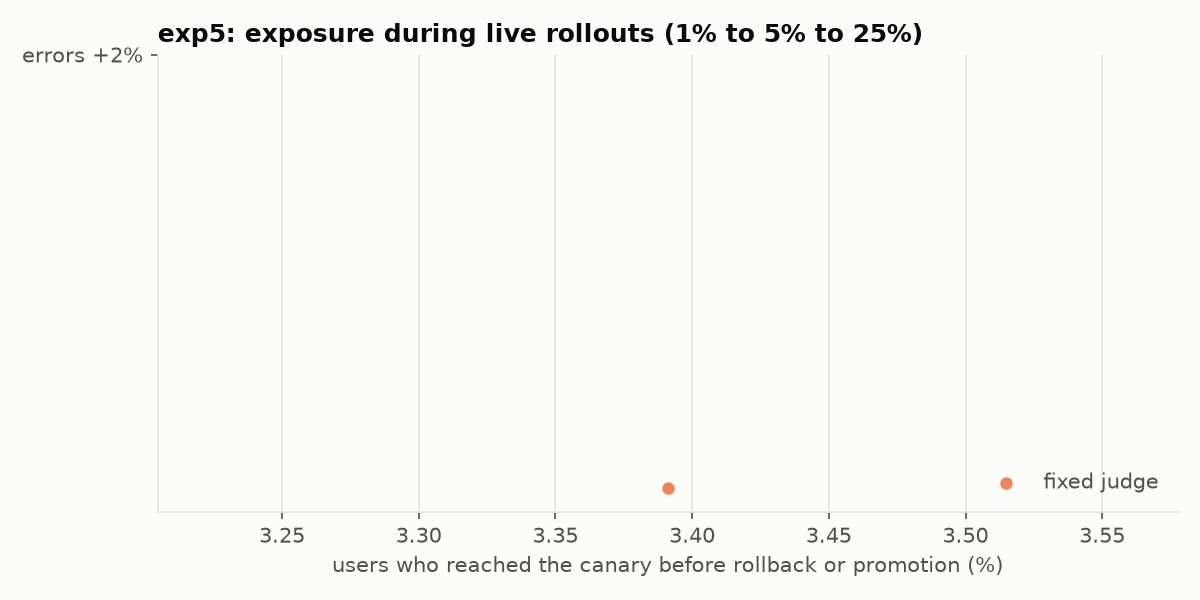
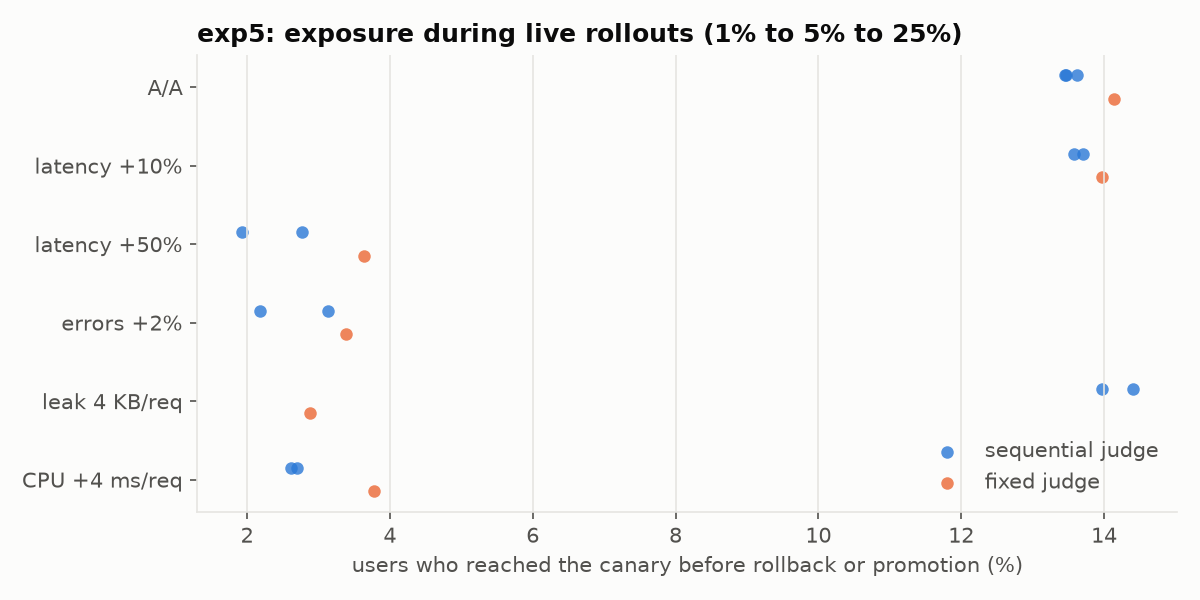
exp5: live rollouts on the mini PC (native Windows processes)

diff --git a/bench/ledger.py b/bench/ledger.py
@@ -151,7 +151,10 @@ def main():
             s = summ[-1]
             w("## exp4: agreement with Kayenta (`results/exp4.jsonl`)\n")
             w(f"Kayenta itself (`{s['kayenta_image']}`, unmodified) and CanaryJudge judged the same recorded series, every run at "
-              f"{', '.join(str(x) for x in s['windows'])} intervals. CanaryJudge was called {s['canaryjudge_via']}.\n")
+              f"{', '.join(str(x) for x in s['windows'])} intervals ({s['judgements']} judgments of {s['runs']} runs). CanaryJudge "
+              f"was called through its Kayenta-compatible API, and again in process (`results/exp4_inprocess.jsonl`, the same "
+              f"result). This ran on a {s['machine']['host']}, because Docker on the mini PC was unavailable by then "
+              f"(BUG_LOG #9); the judgments are deterministic, so the machine does not change them.\n")
             w(f"- Per-metric classification: **{s['metric_verdicts_agree']:,} of {s['metric_verdicts_compared']:,}** agree.")
             w(f"- Canary verdict (Pass, Marginal, Fail): **{s['canary_verdicts_agree']} of {s['judgements']}** agree.")
             w(f"- Largest score difference: {s['max_score_diff']:.2f}.")
@@ -164,7 +167,9 @@ def main():
         w("## exp5: live rollouts (`results/exp5.jsonl`)\n")
         w("The rollout controller moves a fresh canary through 1%, 5% and 25% of users (2 minutes each, a fresh baseline at the same "
           "share), then promotes it. Users stick to one side by a hash of their id; the share of users who reached the canary is "
-          "counted by the splitter from the start of the rollout to the end (rollback or promotion).\n")
+          "counted by the splitter from the start of the rollout to the end (rollback or promotion). These ran as native Windows "
+          "processes on the same mini PC (Prometheus's Windows binary, every service a plain JVM on 127.0.0.1), because Docker in "
+          "WSL had become unusable (BUG_LOG #9). The load generator sends 200 requests per second to the rollout lane.\n")
         w("| regression | judge | rollouts | rolled back | median minutes to rollback | median share of users reached | max share of users reached |")
         w("|---|---|---|---|---|---|---|")
         groups = {}
@@ -177,6 +182,11 @@ def main():
             w(f"| {LABEL.get(s, s)} | {mode} | {len(rs)} | {len(rb)} | {fmt_min(statistics.median(mins)) if mins else ''} | "
               f"{pct(statistics.median(shares), 2)} | {pct(max(shares), 2)} |")
         bad = [r for r in exp5 if r["scenario"] != "aa" and r["mode"] == "sequential"]
+        fast = [r for r in bad if r["status"] == "rolled_back" and r["scenario"].split("_")[0] in ("latency", "errors", "cpu")]
+        if fast:
+            w(f"\nSequential judge, latency, error and CPU regressions it rolled back ({len(fast)} rollouts): at most "
+              f"**{pct(max(r['canary_user_share'] for r in fast), 1)}** of users reached the canary, median "
+              f"{statistics.median(r['seconds'] for r in fast) / 60:.1f} minutes to rollback.")
         if bad:
             w(f"\nSequential judge, every injected regression ({len(bad)} rollouts): at most **{pct(max(r['canary_user_share'] for r in bad), 1)}** "
               f"of users reached the bad canary before rollback; {sum(r['status'] == 'rolled_back' for r in bad)} of {len(bad)} rolled back.\n")

diff --git a/NUMBERS.md b/NUMBERS.md
@@ -69,7 +69,7 @@ Over every injected run the sequential judge caught (31 runs): median **1.3 min*
 
 ## exp4: agreement with Kayenta (`results/exp4.jsonl`)
 
-Kayenta itself (`us-docker.pkg.dev/spinnaker-community/docker/kayenta:2026.0.4-slim`, unmodified) and CanaryJudge judged the same recorded series, every run at 12, 24, 36 intervals. CanaryJudge was called kayenta-compatible API.
+Kayenta itself (`us-docker.pkg.dev/spinnaker-community/docker/kayenta:2026.0.4-slim`, unmodified) and CanaryJudge judged the same recorded series, every run at 12, 24, 36 intervals (174 judgments of 58 runs). CanaryJudge was called through its Kayenta-compatible API, and again in process (`results/exp4_inprocess.jsonl`, the same result). This ran on a GitHub Actions runner (Linux, ubuntu24), because Docker on the mini PC was unavailable by then (BUG_LOG #9); the judgments are deterministic, so the machine does not change them.
 
 - Per-metric classification: **1,044 of 1,044** agree.
 - Canary verdict (Pass, Marginal, Fail): **174 of 174** agree.
@@ -78,16 +78,26 @@ Kayenta itself (`us-docker.pkg.dev/spinnaker-community/docker/kayenta:2026.0.4-s
 
 ## exp5: live rollouts (`results/exp5.jsonl`)
 
-The rollout controller moves a fresh canary through 1%, 5% and 25% of users (2 minutes each, a fresh baseline at the same share), then promotes it. Users stick to one side by a hash of their id; the share of users who reached the canary is counted by the splitter from the start of the rollout to the end (rollback or promotion).
+The rollout controller moves a fresh canary through 1%, 5% and 25% of users (2 minutes each, a fresh baseline at the same share), then promotes it. Users stick to one side by a hash of their id; the share of users who reached the canary is counted by the splitter from the start of the rollout to the end (rollback or promotion). These ran as native Windows processes on the same mini PC (Prometheus's Windows binary, every service a plain JVM on 127.0.0.1), because Docker in WSL had become unusable (BUG_LOG #9). The load generator sends 200 requests per second to the rollout lane.
 
 | regression | judge | rollouts | rolled back | median minutes to rollback | median share of users reached | max share of users reached |
 |---|---|---|---|---|---|---|
-| A/A (no change) | sequential | 1 | 0 |  | 13.62% | 13.62% |
-| latency +10% | sequential | 1 | 0 |  | 13.71% | 13.71% |
+| A/A (no change) | sequential | 3 | 0 |  | 13.47% | 13.62% |
+| A/A (no change) | fixed | 1 | 0 |  | 14.14% | 14.14% |
+| latency +10% | sequential | 2 | 0 |  | 13.65% | 13.71% |
+| latency +10% | fixed | 1 | 0 |  | 13.98% | 13.98% |
+| latency +50% | sequential | 2 | 2 | 2.8 | 2.35% | 2.78% |
+| latency +50% | fixed | 1 | 1 | 4.3 | 3.64% | 3.64% |
+| errors +2% of requests | sequential | 2 | 2 | 3.1 | 2.66% | 3.13% |
 | errors +2% of requests | fixed | 1 | 1 | 4.1 | 3.39% | 3.39% |
-| CPU +4 ms per request | sequential | 1 | 1 | 2.7 | 2.70% | 2.70% |
+| leak 4 KB per request | sequential | 2 | 1 | 6.2 | 14.19% | 14.40% |
+| leak 4 KB per request | fixed | 1 | 1 | 2.1 | 2.88% | 2.88% |
+| CPU +4 ms per request | sequential | 2 | 2 | 2.8 | 2.66% | 2.70% |
+| CPU +4 ms per request | fixed | 1 | 1 | 4.2 | 3.77% | 3.77% |
 
-Sequential judge, every injected regression (2 rollouts): at most **13.7%** of users reached the bad canary before rollback; 1 of 2 rolled back.
+Sequential judge, latency, error and CPU regressions it rolled back (6 rollouts): at most **3.1%** of users reached the canary, median 2.8 minutes to rollback.
+
+Sequential judge, every injected regression (10 rollouts): at most **14.4%** of users reached the bad canary before rollback; 7 of 10 rolled back.
 
 Manual 30-minute canary, for comparison (a model, not a measurement): a canary at 5% of users for 30 minutes exposes 5% of users when the regression is caught at the end, and every user when it is missed and promoted. With the miss rates of the tuned static limits from exp1 (the closest thing to a person watching dashboards), the expected share is listed per regression in `results/exp5_manual_model.jsonl`.
 
